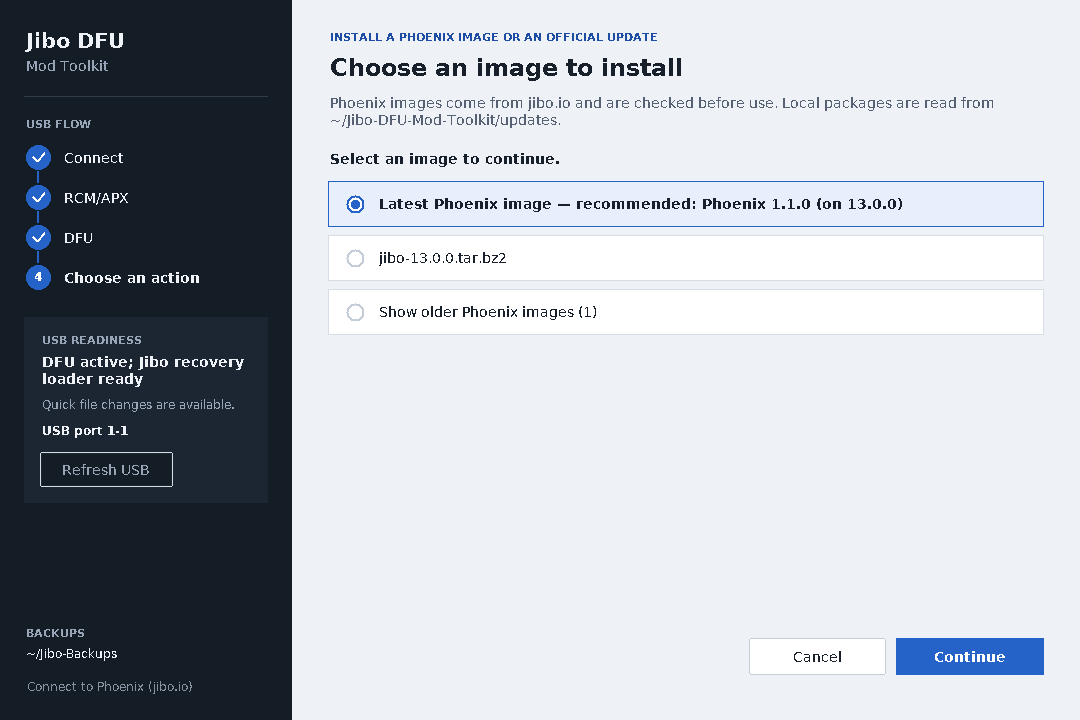
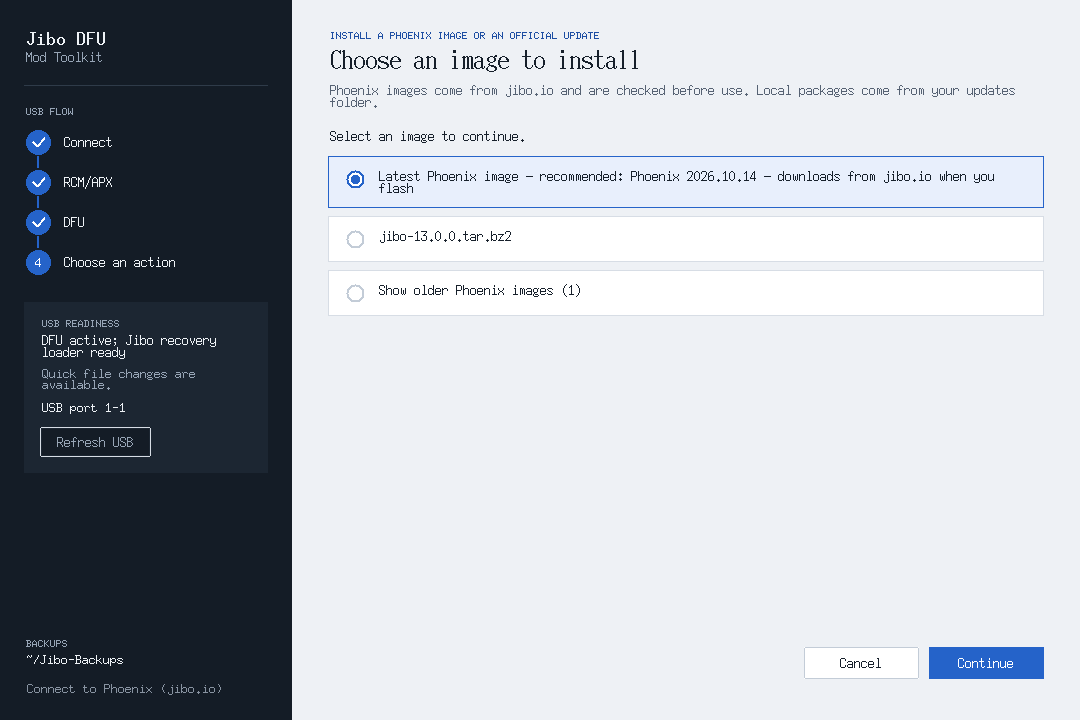
Show the unified Phoenix flash flow and remove completed working files

diff --git a/tests/test_owner_flash_flow.py b/tests/test_owner_flash_flow.py
@@ -24,6 +24,14 @@ class OwnerFlashChoiceTests(unittest.TestCase):
         self.assertNotIn('downloaded', items[0].label)
         self.assertEqual(items[1].label, 'official.tar.bz2')
 
+    def test_cli_list_does_not_advertise_saved_downloads(self):
+        with patch.object(h, 'fetch_catalog', return_value=sample_catalog()):
+            result = d._hosted_cli_list('packages', False)
+        for row in result['images']:
+            self.assertNotIn('downloaded', row)
+            self.assertNotIn('path', row)
+            self.assertNotIn('downloaded_path', row)
+
     def test_cli_has_no_download_or_offline_flash_path(self):
         for argv in (['download-update', '--image', 'latest'],
                      ['flash-hosted-update', '--image', 'latest', '--offline'],
@@ -89,7 +97,6 @@ class OwnerFlashFlowTests(HostedFixture):
             else:
                 result = tui._run_hosted_update(api, h, '1-1')
                 self.assertEqual(result['status'], 'cancelled' if outcome == 'cancel' else 'verified')
-        self.assertEqual(events[:3], ['calibration', 'download', 'verify'])
         self.assertEqual(own.read_bytes(), b'user package')
         self.assertEqual(backup.read_bytes(), b'robot backup')
         self.assertEqual(record.read_text(), 'operation record')
@@ -98,6 +105,7 @@ class OwnerFlashFlowTests(HostedFixture):
             self.assertFalse(h._provenance(path).exists())
         self.assertFalse(list(dest.rglob('*.ext4')))
         self.assertFalse(list(dest.rglob('*.provenance.json')))
+        self.assertEqual(events[:3], ['calibration', 'download', 'verify'])
         return events
 
     def test_completed_download_deleted_after_success(self):
@@ -165,6 +173,13 @@ class OwnerFlashFlowTests(HostedFixture):
                                     '--directory', str(dest)]), 0)
         self.assertEqual(len(paths), 1)
         self.assertFalse(paths[0].parent.exists())
+
+    def test_interrupt_without_partial_removes_metadata_copies(self):
+        dest = self.cache.parent / 'packages'
+        with h.flash_download_session(self.row['id'], dest_dir=dest) as session:
+            (session.directory / 'metadata.json').write_text('{}')
+            session.interrupted = True
+        self.assertFalse(session.directory.exists())
 
     def test_unowned_working_folder_is_never_deleted(self):
         dest = self.cache.parent / 'packages'

diff --git a/scripts/flash_docs_screenshots.py b/scripts/flash_docs_screenshots.py
@@ -101,7 +101,7 @@ def capture_hosted(out):
     from dataclasses import replace
     from unittest.mock import patch
     import threading
-    from gui_fakes import FakeHosted, FakeHostedApi, HostedError, Progress, sample_catalog
+    from gui_fakes import FakeHosted, FakeHostedApi, sample_catalog
     import jibo_gui as gui
     import jibo_gui_core as core
 
@@ -184,7 +184,10 @@ def capture_hosted(out):
                 pump(lambda: window.prompt is not None and window.prompt.title == 'Choose calibration handling')
                 assert not hosted.started.is_set()
                 window.answer('keep-calibration')
-                pump(lambda: controller.download_active and hosted.started.is_set())
+                pump(lambda: controller.download_active and hosted.started.is_set() and
+                     window._cancel_shown and 'Downloading 25%' in window.progress_status.cget('text'))
+                assert window.progress_cancel.winfo_viewable()
+                assert window.progress_cancel.winfo_height() >= window.progress_cancel.winfo_reqheight()
                 capture('hosted-progress')
                 hosted.gate.set()
                 pump(lambda: window.prompt is not None and window.prompt.kind == 'confirm')

diff --git a/jibo_dfu.py b/jibo_dfu.py
@@ -2955,13 +2955,14 @@ def _hosted_cli_list(directory, offline):
     except hosted.HostedError as exc:
         if not offline or exc.code not in ('offline', 'expired'):
             raise
-        catalog = hosted.Catalog(tuple(hosted.local_hosted_images(directory)), None, '', True,
+        catalog = hosted.Catalog((), None, '', True,
                                  exc.code + ': ' + str(exc))
     rows = []
     for image in catalog.images:
-        rows.append({**asdict(image), 'source': 'hosted', 'recommended': image.is_latest,
-                     'available': image.compatible and (image.offered or image.downloaded_path is not None),
-                     'downloaded': image.downloaded_path is not None, 'path': image.downloaded_path,
+        row = asdict(image)
+        row.pop('downloaded_path', None)
+        rows.append({**row, 'source': 'hosted', 'recommended': image.is_latest,
+                     'available': image.compatible and image.offered,
                      'reason': image.incompatible_reason, 'var_policies': hosted.hosted_var_policies(image)})
     return {'images': rows, 'latest_id': catalog.latest_id, 'from_cache': catalog.from_cache,
             'error': catalog.error}

diff --git a/tests/test_dfu_settle.py b/tests/test_dfu_settle.py
@@ -59,6 +59,19 @@ class DfuSettleTests(unittest.TestCase):
         self.assertEqual(len(calls), int(d.DFU_SETTLE_SECONDS / 0.25))
 
 
+    def test_partition_context_waits_for_usb_access_after_transition(self):
+        clock = [0.0]
+        with patch.object(d, 'devices', return_value=[{'port': '1-1', 'state': 'dfu'}]), \
+                patch.object(d, 'dfu_alternatives', side_effect=[([], 'Cannot open DFU device'),
+                    ([d.MARKER, 'var'], 'name="var", serial="example-device"')]) as listing, \
+                patch.object(d.time, 'monotonic', side_effect=lambda: clock[0]), \
+                patch.object(d.time, 'sleep', side_effect=lambda seconds: clock.__setitem__(0, clock[0] + seconds)):
+            result = d._dfu_context('1-1', 'dfu-util')
+        self.assertEqual(result[0], '1-1')
+        self.assertEqual(result[1], [d.MARKER, 'var'])
+        self.assertEqual(listing.call_count, 2)
+        self.assertEqual(clock[0], 0.25)
+
     def test_listing_subprocess_cannot_outlive_remaining_deadline(self):
         clock = [0.0]
         def run(argv, timeout=30):

diff --git a/jibo_hosted_updates.py b/jibo_hosted_updates.py
@@ -688,7 +688,10 @@ def flash_download_session(image_id, *, dest_dir=None):
         try:
             yield session
         finally:
-            if session.complete or not session.interrupted:
+            resumable = (session.interrupted and not session.complete and
+                         any(not path.is_symlink() and path.is_file()
+                             for path in directory.glob('phoenix-*.tar.bz2.part')))
+            if not resumable:
                 # This directory never contains robot backups or user packages.
                 _safe_path(directory)
                 if _read(marker, 1024) != owner:

diff --git a/docs/images/gui/README.md b/docs/images/gui/README.md
@@ -20,11 +20,16 @@ Capture these along with the four existing screens by adding `--phoenix`:
 xvfb-run -a -s '-screen 0 1400x1000x24' python3 scripts/docs_screenshots.py --phoenix
 ```
 
+The unified flash list and download progress use `hosted-home.png`,
+`hosted-chooser.png` and `hosted-progress.png`. The hosted capture checks the
+featured-first list, calibration-before-download order and Cancel-default review,
+plus layout at 920 × 640 and 1080 × 720.
+
 The flash choices have two companion images: `flash-calibration.png` and
 `flash-without-calibration-confirm.png`. The separate capture script leaves
 the published setup-card fixtures unchanged and verifies that declining the
 unsafe confirmation makes no backend call:
 
 ```sh
-xvfb-run -a -s '-screen 0 1400x1000x24' python3 scripts/flash_docs_screenshots.py
+xvfb-run -a -s '-screen 0 1400x1000x24' python3 scripts/flash_docs_screenshots.py --hosted
 ```

diff --git a/docs/hosted-flash-images.md b/docs/hosted-flash-images.md
@@ -43,7 +43,7 @@ asks first and stops without writing to the robot. The progress page shows how
 much is done, the speed and the time left. Free-space checks still run before
 download and preparation.
 
-![A Phoenix image download at 42 percent with its speed, time left and a Cancel download button](images/gui/hosted-progress.png)
+![A Phoenix image download for flashing at 25 percent with its speed, time left and a Cancel download button](images/gui/hosted-progress.png)
 
 The two pictures above use example image names, sizes and folders.
 
